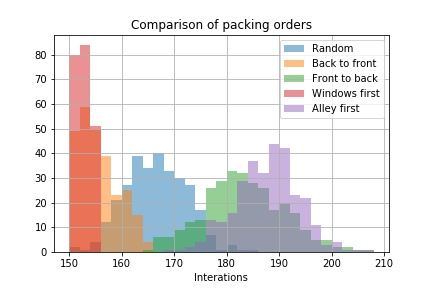
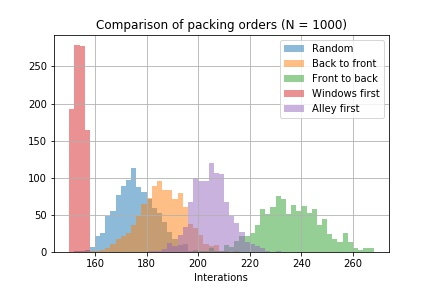
Added pause before entering a row

diff --git a/plane_packing.py b/plane_packing.py
@@ -200,12 +200,13 @@ class Plane:
         else:
             raise IndexError('Only grid[row,col] __getitem__ calls are supported')
 
-    def spawn(self, destination, actions=0, sprite=None):
+    def spawn(self, destination, bag=True, actions=0, sprite=None):
         ''' Spawn new passenger with a specified destination '''
         ec = self.entrace_cell
         if ec.has_passenger:
             return False
-        p = Passenger(0, 0, ec, destination, actions=actions, sprite=sprite)
+        p = Passenger(0, 0, ec, destination, bag=bag, actions=actions, sprite=sprite)
+        if bag and destination[0]==0: p.pause = 1  # Add pause to simulate putting bag into the locker
         ec.passenger = p
         self._passengers.append(p)
         return True
@@ -273,12 +274,13 @@ class Plane:
         return Image.fromarray(np.uint8(arr))
 
 class Passenger:
-    def __init__(self, row, seat, parent, destination, actions=0, sprite=None):
+    def __init__(self, row, seat, parent, destination, bag=True, actions=0, sprite=None):
         self.parent_cell = parent
         self.actions = actions
         self.pause = 0
         self.row = row
         self.seat = seat
+        self.bag = bag
         self.destination = destination
         self.sprite = sprite if sprite is not None else randint(1,6)
 
@@ -308,8 +310,12 @@ class Passenger:
 
         if self.row < drow:
             self.move_down()
+            if self.row == drow and self.bag:
+                self.pause = 1
         elif self.row > drow:
             self.move_up()
+            if self.row == drow and self.bag:
+                self.pause = 1
         else:
             if self.seat < dseat:  # Going right
                 if self.parent_cell.right.has_passenger:
